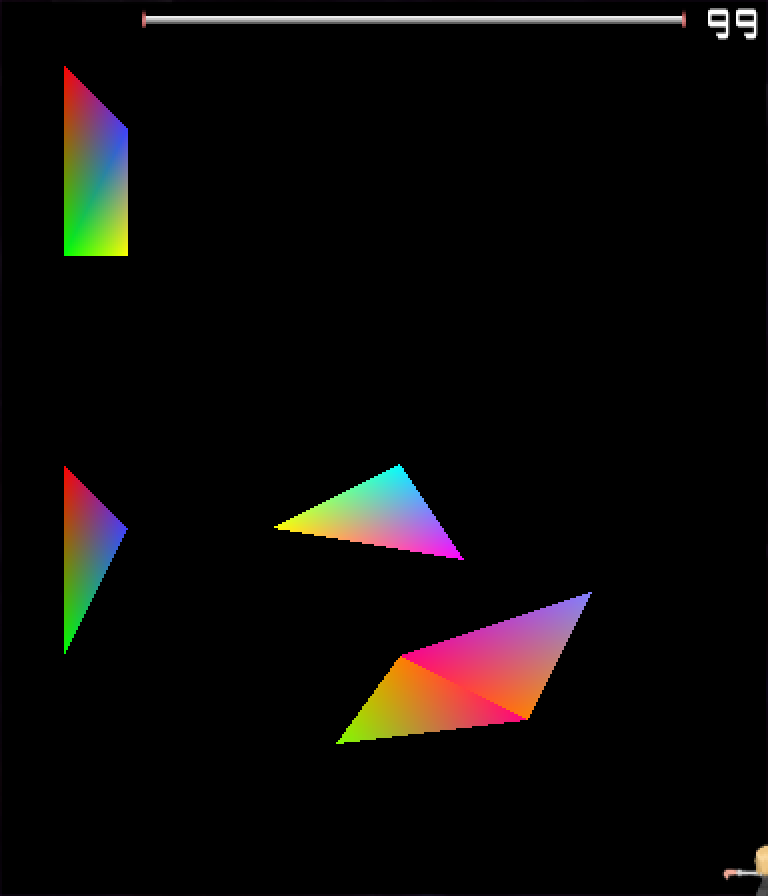
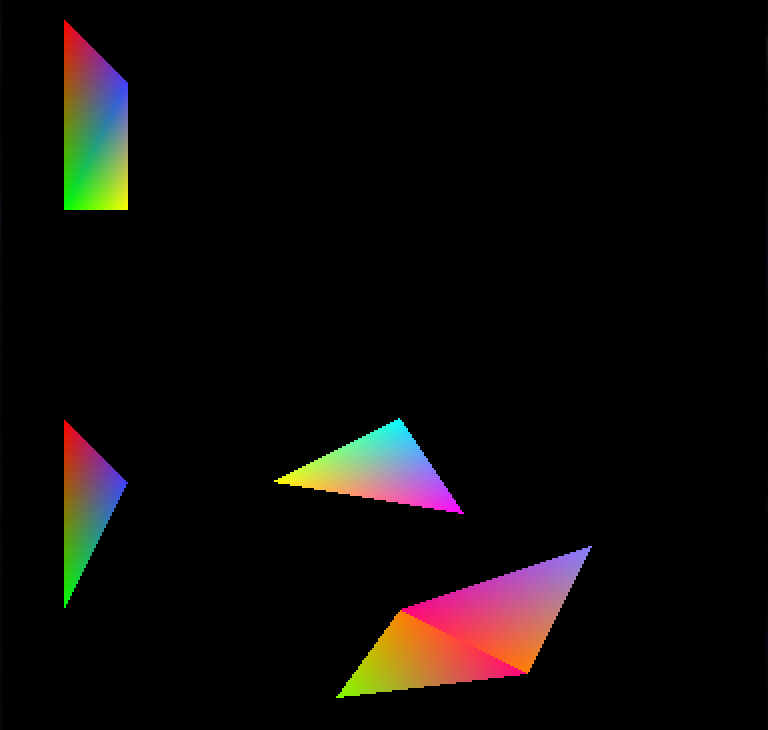
Lesson 29 Triangle portion complete

diff --git a/ph3tutorials/ph3u3l29.html b/ph3tutorials/ph3u3l29.html
@@ -67,6 +67,7 @@
 	          <li><a href="#sub4d">Part 4d: How do I utilize Primitives (PRIMITIVE_LINELIST)?</a></li>
 	          <li><a href="#sub4e">Part 4e: How do I utilize Primitives (PRIMITIVE_LINESTRIP)?</a></li>
 	          <li><a href="#sub4f">Part 4f: How do I utilize Primitives (PRIMITIVE_POINT_LIST)?</a></li>
+	          <li><a href="#sub4g">Part 4g: Which primitive type should I use?</a></li>
 	          <li><a href="#sub5">Part 5: How can I create magic circles?</a></li>
 	          <li><a href="#sub6">Part 6: How can I create circular lifebars?</a></li>
 	          <li><a href="#quiz1">Quiz: Primitives</a></li>
@@ -85,9 +86,8 @@
 	      <h2 class="ph3tutorialheader" id="sub3">Part 3: How do I utilize Primitive Functions in Danmakufu?</h2>
 	      <p>We've already seen most of the basic Primitive Functions - <span class="tooltip" onmouseover="getFxnDocs('ObjPrim_Create', 'f_opcreate_01');"><code>ObjPrim_Create(OBJ_PRIMITIVE_2D)</code><span class="tooltiptext" id="f_opcreate_01"></span></span> will create a 2D Primitive. We can set textures with <span class="tooltip" onmouseover="getFxnDocs('ObjPrim_SetTexture', 'f_opsettex_01');"><code>ObjPrim_SetTexture()</code><span class="tooltiptext" id="f_opsettex_01"></span></span>.</p>
 	      <p>Now let's go over some of the ones that don't apply to 2D Sprites.</p>
-	      <p>First, there are various types of Primitives. We will cover those supported by Danmakufu. For Triangle-based Primitives, we have Triangle List, Triangle Strip, and Triangle Fan. For Line-based Primitives we have Line List and Line Strip. For Points we only have Point List - not like you can do much else with just points. These can be set using <span class="tooltip" onmouseover="getFxnDocs('ObjPrim_SetPrimitiveType', 'f_opspt_01');"><code>ObjPrim_SetPrimitiveType()</code><span class="tooltiptext" id="f_opspt_01"></span></span>. Do note that the Line and Point primitive types are not officially documented in Danmakufu, but they should work appropriately. The following image shows visuals (note that not all of the primitive types in the image are usable in Danmakufu).</p>
-	      <img src="https://blog.lazybee.me/wp-content/uploads/2013/02/primitive.jpg" style="max-width:512px;width:100%;height:auto"><br><br>
-	      <p>Note the numbers - these are the vertices. We will need to set the vertex count for our primitives using <span class="tooltip" onmouseover="getFxnDocs('ObjPrim_SetVertexCount', 'f_opsvc_01');"><code>ObjPrim_SetVertexCount()</code><span class="tooltiptext" id="f_opsvc_01"></span></span>. It can be retrieved with <span class="tooltip" onmouseover="getFxnDocs('ObjPrim_GetVertexCount', 'f_opgvc_01');"><code>ObjPrim_GetVertexCount()</code><span class="tooltiptext" id="f_opgvc_01"></span></span>.</p>
+	      <p>First, there are various types of Primitives. We will cover those supported by Danmakufu. For Triangle-based Primitives, we have Triangle List, Triangle Strip, and Triangle Fan. For Line-based Primitives we have Line List and Line Strip. For Points we only have Point List - not like you can do much else with just points. These can be set using <span class="tooltip" onmouseover="getFxnDocs('ObjPrim_SetPrimitiveType', 'f_opspt_01');"><code>ObjPrim_SetPrimitiveType()</code><span class="tooltiptext" id="f_opspt_01"></span></span>. Do note that the Line and Point primitive types are not officially documented in Danmakufu, but they should work appropriately.</p>
+	      <p>Primitives are defined using vertices. We will need to set the vertex count for our primitives using <span class="tooltip" onmouseover="getFxnDocs('ObjPrim_SetVertexCount', 'f_opsvc_01');"><code>ObjPrim_SetVertexCount()</code><span class="tooltiptext" id="f_opsvc_01"></span></span>. It can be retrieved with <span class="tooltip" onmouseover="getFxnDocs('ObjPrim_GetVertexCount', 'f_opgvc_01');"><code>ObjPrim_GetVertexCount()</code><span class="tooltiptext" id="f_opgvc_01"></span></span>.</p>
 	      <p>Each vertex can have a position (relative to the position of the render object as a whole), texture coordinate, color, and alpha. These are set using <span class="tooltip" onmouseover="getFxnDocs('ObjPrim_SetVertexPosition', 'f_opsvp_01');"><code>ObjPrim_SetVertexPosition()</code><span class="tooltiptext" id="f_opsvp_01"></span></span>, <span class="tooltip" onmouseover="getFxnDocs('ObjPrim_SetVertexUV', 'f_opsvuv_01');"><code>ObjPrim_SetVertexUV()</code><span class="tooltiptext" id="f_opsvuv_01"></span></span> or <span class="tooltip" onmouseover="getFxnDocs('ObjPrim_SetVertexUVT', 'f_opsvuvt_01');"><code>ObjPrim_SetVertexUVT()</code><span class="tooltiptext" id="f_opsvuvt_01"></span></span>, <span class="tooltip" onmouseover="getFxnDocs('ObjPrim_SetVertexColor', 'f_opsvcol_01');"><code>ObjPrim_SetVertexColor()</code><span class="tooltiptext" id="f_opsvcol_01"></span></span>, and <span class="tooltip" onmouseover="getFxnDocs('ObjPrim_SetVertexAlpha', 'f_opsval_01');"><code>ObjPrim_SetVertexAlpha()</code><span class="tooltiptext" id="f_opsval_01"></span></span>, respectively</p>
 	      <p>In regards to the UV coordinates (texture coordinates), you can think of it as follows: given a 512x512 texture, the top left (0, 0) has a corresponding texture coordinate of (0.0, 0.0) while the bottom right (512, 512) has a corresponding texture coordinate of (1.0, 1.0). So if we wanted to use the top left quadrant of the texture, we could use (0, 0), (0, 256), (256, 0), and (256, 256), or we could use (0.0, 0.0), (0.0, 0.5), (0.5, 0.0), (0.5, 0.5).</p>
 	      <p>For more information, check the function reference for UV and UVT.</p>
@@ -145,7 +145,7 @@
                   <circle cx="416" cy="96" r="4px" stroke="#FFFFFF" stroke-width="1px" fill="#8888FF"></circle>
                   <text x="416" y="96" stroke="#8888FF" fill="#FFFFFF" text-anchor="middle" dominant-baseline="central" font-size="10px" dx="0" dy="-12">v11</text>
               </svg>
-	      <img src="./tutimg/u29-4a.png" width="384" height="448"></img><br><br>
+	      <img src="./tutimg/u29-4a.png" width="384" height="365"></img><br><br>
 	      <p>In Example 1, vertices 1 and 4, 2 and 5 are at the same location with the same color, resulting in the effect you see below. In contrast, in Example 2, vertices 9 and 10 have their colors swapped compared to vertices 6 and 7, resulting in a different effect.</p>
 <pre class="prettyprint linenums"><code>task Example1 {
     let obj = ObjPrim_Create(OBJ_PRIMITIVE_2D);
@@ -202,29 +202,152 @@ task Example2 {
 }</code></pre>
 	      <p></p>
 	      <h2 class="ph3tutorialheader" id="sub4b">Part 4b: How do I utilize Primitives (PRIMITIVE_TRIANGLESTRIP)?</h2>
-	      <p>CANVAS + WEBGL</p>
-	      <p>DANMAKUFU CODE</p>
-	      <p>DANMAKUFU SCREENSHOT</p>
+	      <p>For Triangle Strip and Triangle Fan, the types you will be using the most often, it is best to compare the two and see how each of them works. <a target="_blank" href="https://en.wikipedia.org/wiki/Triangle_strip">Triangle Strip</a> is relatively intuitive. You add your first vertex and your second. When you add your third, it forms a triangle with the first and second, just like with Triangle List. However, when you add your fourth vertex, it forms a triangle with the second and third. The fifth vertex will form a triangle with the third and fourth, etc.</p>
+	      <p>As you can see, Triangle Strips are useful when you want to form a triangle with the previous two vertices. No prior knowledge of vertices before the last two is needed... but on the flip side knowledge of the vertices before the last two is not accessible.</p>
+	      <p>Let's illustrate Triangle Strip usage with the following example.</p>
+              <svg width="200" height="200" version="1.1" xmlns="http://www.w3.org/2000/svg">
+                  <rect width="200" height="200" style="fill:#333333"></rect>
+
+                  <text x="8" y="192" stroke="none" fill="#FFFFFF" text-anchor="start" font-size="12px">EXAMPLE 4B-1</text>
+		  <!-- OpenGL requires: (v0, v1, v2), (v2, v1, v3), (v2, v3, v4), etc. for drawing order -->
+                  <path d="M 32 32 V 128 L 64 64 Z" stroke="white" stroke-width="2px" fill="#666666"></path>
+                  <path d="M 64 64 L 32 128 L 64 160 Z" stroke="white" stroke-width="2px" fill="#666666"></path>
+                  <path d="M 64 64 L 64 160 L 96 32 Z" stroke="white" stroke-width="2px" fill="#666666"></path>
+                  <path d="M 96 32 L 64 160 L 96 128 Z" stroke="white" stroke-width="2px" fill="#666666"></path>
+                  <path d="M 96 32 L 96 128 L 144 32 Z" stroke="white" stroke-width="2px" fill="#666666"></path>
+                  <path d="M 144 32 L 96 128 L 144 128 Z" stroke="white" stroke-width="2px" fill="#666666"></path>
+                  <circle cx="32" cy="32" r="4px" stroke="#FFFFFF" stroke-width="1px" fill="#FF0000"></circle>
+                  <text x="32" y="32" stroke="#FF0000" fill="#FFFFFF" text-anchor="middle" dominant-baseline="central" font-size="10px" dx="0" dy="-12">v0</text>
+                  <circle cx="32" cy="128" r="4px" stroke="#FFFFFF" stroke-width="1px" fill="#00FF00"></circle>
+                  <text x="32" y="128" stroke="#00FF00" fill="#FFFFFF" text-anchor="middle" dominant-baseline="central" font-size="10px" dx="0" dy="12">v1</text>
+                  <circle cx="64" cy="64" r="4px" stroke="#FFFFFF" stroke-width="1px" fill="#4444FF"></circle>
+                  <text x="64" y="64" stroke="#4444FF" fill="#FFFFFF" text-anchor="middle" dominant-baseline="central" font-size="10px" dx="0" dy="-12">v2</text>
+                  <circle cx="64" cy="160" r="4px" stroke="#FFFFFF" stroke-width="1px" fill="#FFFF00"></circle>
+                  <text x="64" y="160" stroke="#FFFF00" fill="#FFFFFF" text-anchor="middle" dominant-baseline="central" font-size="10px" dx="0" dy="12">v3</text>
+                  <circle cx="96" cy="32" r="4px" stroke="#FFFFFF" stroke-width="1px" fill="#FF00FF"></circle>
+                  <text x="96" y="32" stroke="#FF00FF" fill="#FFFFFF" text-anchor="middle" dominant-baseline="central" font-size="10px" dx="0" dy="-12">v4</text>
+                  <circle cx="96" cy="128" r="4px" stroke="#FFFFFF" stroke-width="1px" fill="#00FFFF"></circle>
+                  <text x="96" y="128" stroke="#00FFFF" fill="#FFFFFF" text-anchor="middle" dominant-baseline="central" font-size="10px" dx="0" dy="12">v5</text>
+                  <circle cx="144" cy="32" r="4px" stroke="#FFFFFF" stroke-width="1px" fill="#FF8800"></circle>
+                  <text x="144" y="32" stroke="#FF8800" fill="#FFFFFF" text-anchor="middle" dominant-baseline="central" font-size="10px" dx="0" dy="-12">v6</text>
+                  <circle cx="144" cy="128" r="4px" stroke="#FFFFFF" stroke-width="1px" fill="#FF0088"></circle>
+                  <text x="144" y="128" stroke="#FF0088" fill="#FFFFFF" text-anchor="middle" dominant-baseline="central" font-size="10px" dx="0" dy="12">v7</text>
+              </svg>
+	      <img src="./tutimg/u29-4b.png" width="142" height="155"></img><br><br>
+	      <p>As you can see, the colors are all emanating from their vertices without sharp edges. </p>
+<pre class="prettyprint linenums"><code>task ExampleB1 {
+    let obj = ObjPrim_Create(OBJ_PRIMITIVE_2D);
+    ObjPrim_SetPrimitiveType(obj, PRIMITIVE_TRIANGLESTRIP);
+    ObjPrim_SetVertexCount(obj, 8);
+
+    ObjPrim_SetVertexPosition(obj, 0, 32, 32, 0);
+    ObjPrim_SetVertexColor(obj, 0, 255, 0, 0);
+    ObjPrim_SetVertexPosition(obj, 1, 32, 128, 0);
+    ObjPrim_SetVertexColor(obj, 1, 0, 255, 0);
+    ObjPrim_SetVertexPosition(obj, 2, 64, 64, 0);
+    ObjPrim_SetVertexColor(obj, 2, 64, 64, 255);
+    ObjPrim_SetVertexPosition(obj, 3, 64, 160, 0);
+    ObjPrim_SetVertexColor(obj, 3, 255, 255, 0);
+    ObjPrim_SetVertexPosition(obj, 4, 96, 32, 0);
+    ObjPrim_SetVertexColor(obj, 4, 255, 0, 255);
+    ObjPrim_SetVertexPosition(obj, 5, 96, 128, 0);
+    ObjPrim_SetVertexColor(obj, 5, 0, 255, 255);
+    ObjPrim_SetVertexPosition(obj, 6, 144, 32, 0);
+    ObjPrim_SetVertexColor(obj, 6, 255, 128, 0);
+    ObjPrim_SetVertexPosition(obj, 7, 144, 128, 0);
+    ObjPrim_SetVertexColor(obj, 7, 255, 0, 128);
+}</code></pre>
 	      <p></p>
 	      <h2 class="ph3tutorialheader" id="sub4c">Part 4c: How do I utilize Primitives (PRIMITIVE_TRIANGLEFAN)?</h2>
-	      <p>CANVAS + WEBGL</p>
-	      <p>DANMAKUFU CODE</p>
-	      <p>DANMAKUFU SCREENSHOT</p>
-	      <p></p>
+	      <p>As stated earlier, for Triangle Strip and Triangle Fan, the types you will be using the most often, it is best to compare the two and see how each of them works. <a target="_blank" href="https://en.wikipedia.org/wiki/Triangle_fan">Triangle Fan</a> is relatively intuitive. You add your first vertex and your second. When you add your third, it forms a triangle with the first and second, just like with Triangle List and Triangle Strip. Each vertex after this forms a triangle with the previous vertex and the first. In other words, the very first vertex is present in every single triangle.</p>
+	      <p>As you can see, Triangle Fans are useful when organizing a shape around a point (like its namesake, the fan). However, this restriction prevents Triangle Fans from being used effectively outside of this specific niche.</p>
+	      <p>Let's illustrate Triangle Fan usage with the following example.</p>
+              <svg width="200" height="200" version="1.1" xmlns="http://www.w3.org/2000/svg">
+                  <rect width="200" height="200" style="fill:#333333"></rect>
+
+                  <text x="8" y="192" stroke="none" fill="#FFFFFF" text-anchor="start" font-size="12px">EXAMPLE 4C-1</text>
+                  <path d="M 96 96 L 96 32 L 140 52 Z" stroke="white" stroke-width="2px" fill="#666666"></path>
+                  <path d="M 96 96 L 140 52 L 160 96 Z" stroke="white" stroke-width="2px" fill="#666666"></path>
+                  <path d="M 96 96 L 160 96 L 140 140 Z" stroke="white" stroke-width="2px" fill="#666666"></path>
+                  <path d="M 96 96 L 140 140 L 96 160 Z" stroke="white" stroke-width="2px" fill="#666666"></path>
+                  <path d="M 96 96 L 96 160 L 52 140 Z" stroke="white" stroke-width="2px" fill="#666666"></path>
+                  <path d="M 96 96 L 52 140 L 32 96 Z" stroke="white" stroke-width="2px" fill="#666666"></path>
+                  <path d="M 96 96 L 32 96 L 52 52 Z" stroke="white" stroke-width="2px" fill="#666666"></path>
+                  <path d="M 96 96 L 52 52 L 96 32 Z" stroke="white" stroke-width="2px" fill="#666666"></path>
+                  <circle cx="96" cy="96" r="4px" stroke="#FFFFFF" stroke-width="1px" fill="#CCCCCC"></circle>
+                  <text x="96" y="96" stroke="#FFFFFF" fill="#FFFFFF" text-anchor="middle" dominant-baseline="central" font-size="10px" dx="0" dy="-12">v0</text>
+                  <circle cx="96" cy="32" r="4px" stroke="#FFFFFF" stroke-width="1px" fill="#FF0000"></circle>
+                  <text x="96" y="32" stroke="#FF0000" fill="#FFFFFF" text-anchor="middle" dominant-baseline="central" font-size="10px" dx="0" dy="-12">v1,9</text>
+                  <circle cx="140" cy="52" r="4px" stroke="#FFFFFF" stroke-width="1px" fill="#00FF00"></circle>
+                  <text x="140" y="52" stroke="#00FF00" fill="#FFFFFF" text-anchor="middle" dominant-baseline="central" font-size="10px" dx="0" dy="-12">v2</text>
+                  <circle cx="160" cy="96" r="4px" stroke="#FFFFFF" stroke-width="1px" fill="#4444FF"></circle>
+                  <text x="160" y="96" stroke="#4444FF" fill="#FFFFFF" text-anchor="start" dominant-baseline="central" font-size="10px" dx="8" dy="0">v3</text>
+                  <circle cx="140" cy="140" r="4px" stroke="#FFFFFF" stroke-width="1px" fill="#FFFF00"></circle>
+                  <text x="140" y="140" stroke="#FFFF00" fill="#FFFFFF" text-anchor="middle" dominant-baseline="central" font-size="10px" dx="0" dy="12">v4</text>
+                  <circle cx="96" cy="160" r="4px" stroke="#FFFFFF" stroke-width="1px" fill="#FF00FF"></circle>
+                  <text x="96" y="160" stroke="#FF00FF" fill="#FFFFFF" text-anchor="middle" dominant-baseline="central" font-size="10px" dx="0" dy="12">v5</text>
+                  <circle cx="52" cy="140" r="4px" stroke="#FFFFFF" stroke-width="1px" fill="#00FFFF"></circle>
+                  <text x="52" y="140" stroke="#00FFFF" fill="#FFFFFF" text-anchor="middle" dominant-baseline="central" font-size="10px" dx="0" dy="12">v6</text>
+                  <circle cx="32" cy="96" r="4px" stroke="#FFFFFF" stroke-width="1px" fill="#FF8800"></circle>
+                  <text x="32" y="96" stroke="#FF8800" fill="#FFFFFF" text-anchor="end" dominant-baseline="central" font-size="10px" dx="-8" dy="">v7</text>
+                  <circle cx="52" cy="52" r="4px" stroke="#FFFFFF" stroke-width="1px" fill="#FF0088"></circle>
+                  <text x="52" y="52" stroke="#FF0088" fill="#FFFFFF" text-anchor="middle" dominant-baseline="central" font-size="10px" dx="0" dy="-12">v8</text>
+              </svg>
+	      <img src="./tutimg/u29-4c.png" width="152" height="152"></img><br><br>
+	      <p>As can be seen above, Triangle Fans are well suited towards radial applications.</p>
+<pre class="prettyprint linenums"><code>task ExampleC1 {
+    let obj = ObjPrim_Create(OBJ_PRIMITIVE_2D);
+    ObjPrim_SetPrimitiveType(obj, PRIMITIVE_TRIANGLEFAN);
+    ObjPrim_SetVertexCount(obj, 10);
+
+    ObjPrim_SetVertexPosition(obj, 0, 96, 96, 0);
+    ObjPrim_SetVertexColor(obj, 0, 204, 204, 204);
+    ObjPrim_SetVertexPosition(obj, 1, 96, 32, 0);
+    ObjPrim_SetVertexColor(obj, 1, 255, 0, 0);
+    ObjPrim_SetVertexPosition(obj, 2, 140, 52, 0);
+    ObjPrim_SetVertexColor(obj, 2, 0, 255, 0);
+    ObjPrim_SetVertexPosition(obj, 3, 160, 96, 0);
+    ObjPrim_SetVertexColor(obj, 3, 64, 64, 255);
+    ObjPrim_SetVertexPosition(obj, 4, 140, 140, 0);
+    ObjPrim_SetVertexColor(obj, 4, 255, 255, 0);
+    ObjPrim_SetVertexPosition(obj, 5, 96, 160, 0);
+    ObjPrim_SetVertexColor(obj, 5, 255, 0, 255);
+    ObjPrim_SetVertexPosition(obj, 6, 52, 140, 0);
+    ObjPrim_SetVertexColor(obj, 6, 0, 255, 255);
+    ObjPrim_SetVertexPosition(obj, 7, 32, 96, 0);
+    ObjPrim_SetVertexColor(obj, 7, 255, 128, 0);
+    ObjPrim_SetVertexPosition(obj, 8, 52, 52, 0);
+    ObjPrim_SetVertexColor(obj, 8, 255, 0, 128);
+    ObjPrim_SetVertexPosition(obj, 9, 96, 32, 0);
+    ObjPrim_SetVertexColor(obj, 9, 255, 0, 0);
+}</code></pre>
 	      <h2 class="ph3tutorialheader" id="sub4d">Part 4d: How do I utilize Primitives (PRIMITIVE_LINELIST)?</h2>
-	      <p>CANVAS + WEBGL</p>
-	      <p>DANMAKUFU CODE</p>
+	      <p>Now that we've cleared all of the triangles, it is time for lines! A Line List is, similarly to a Triangle List, just a list of lines. Every pair of vertices forms a line between them.</p>
+	      <p>SVG TODO</p>
 	      <p>DANMAKUFU SCREENSHOT</p>
+	      <p>DANMAKUFU CODE</p>
 	      <p></p>
 	      <h2 class="ph3tutorialheader" id="sub4e">Part 4e: How do I utilize Primitives (PRIMITIVE_LINESTRIP)?</h2>
-	      <p>CANVAS + WEBGL</p>
-	      <p>DANMAKUFU CODE</p>
+	      <p>It is now time for Line Strips. Similarly to Triangle Strips, each vertex connects to the previous. Line Strips are incredibly useful for effects and are well-used in main series Touhou games (Seiga's orbs, Sanae's bomb).</p>
+	      <p>SVG TODO</p>
 	      <p>DANMAKUFU SCREENSHOT</p>
+	      <p>DANMAKUFU CODE</p>
 	      <p></p>
 	      <h2 class="ph3tutorialheader" id="sub4f">Part 4f: How do I utilize Primitives (PRIMITIVE_POINT_LIST)?</h2>
-	      <p>CANVAS + WEBGL</p>
-	      <p>DANMAKUFU CODE</p>
+	      <p>SVG TODO</p>
 	      <p>DANMAKUFU SCREENSHOT</p>
+	      <p>DANMAKUFU CODE</p>
+	      <p></p>
+	      <h2 class="ph3tutorialheader" id="sub4g">Part 4g: Which primitive type should I use?</h2>
+	      <p>Now that you have seen the six available primitive types in Danmakufu, we will discuss when you should use each type. First, comparing Triangle List, Triangle Strip and Triangle Fan.</p>
+	      <p>To begin, Triangle List is almost always the least efficient of the three. It requires the most vertices (for a rectangle, Triangle Strip and Triangle Fan require four vertices, while Triangle List requires six!). However, it is the easiest to understand, the easiest to customize, and is extremely versatile.</p>
+	      <p>Triangle Strip, as stated earlier, has the advantage of not referring to any vertices besides the last two. On the other hand, Triangle Fan has every vertex with an edge to the first vertex and the previous vertex. This means that if you want to, say, make an Octagon with a color gradient emitting from the center (refer to Triangle Fan example), it can be done with a total of ten vertices (one for the center, with the second vertex also serving as the last). In comparison, a Triangle Strip requires duplicating over the center vertex multiple times and requires 14 vertices. However, it is impossible to utilize Triangle Fans for anything that explicitly forbids using the first vertex. The sheet example utilized for the Triangle Strip is a clear example.</p>
+	      <p>For a better comparison in regards to how the two work, we will take the examples we used for Triangle Strip and Triangle Fan, and switch the primitive type in Danmakufu without changing any vertices.</p>
+	      <img src="./tutimg/u29-4g.png" width="383" height="347"></img><br><br>
+	      <p>On the left are the examples used in this lesson. On the right are the same vertices, but with the other primitive type. Note how by shifting the starting vertex in the bottom right, it is possible to obtain a 'ribbon' formation, as well as the folding nature of the top right.</p>
+	      <p>There are many different things you can do with Primitives, and it is up to you to do what you find to be the best option.</p>
+	      <p>Do note that Triangle Fans are deprecated in later versions of DirectX and are typically less efficient than Triangle Strips due to the need to refer to the first vertex. As a result, it is recommended that Triangle Strips be used whenever possible.</p>
+	      <p>LINESTRIP VS LINELIST TODO</p>
 	      <p></p>
 	      <h2 class="ph3tutorialheader" id="sub5">Part 5: How can I create magic circles?</h2>
 	      <p></p>

diff --git a/index.html b/index.html
@@ -48,7 +48,7 @@
 	      <div class="indexupdsummer2018">
 	      <p class="indexupdsp2015title">Here are today's updates:</p>
 	      <ul>
-	        <li>Work done on <a href="ph3tutorials/ph3u3l29.html">Ph3 Tutorials - Unit 3 Lesson 29</a>. Triangle List portion made.</li>
+	        <li>Work done on <a href="ph3tutorials/ph3u3l29.html">Ph3 Tutorials - Unit 3 Lesson 29</a>. Triangle portion made.</li>
 	      </ul>
 	      </div>
 	      <h2 style="color:rgb(256,256,192)">August 17, 2018</h2>
